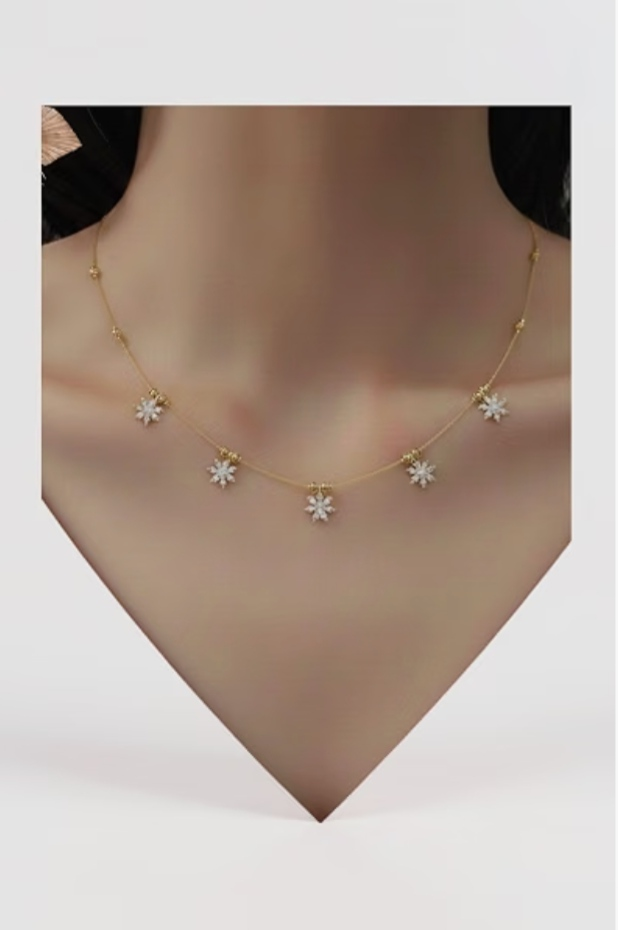
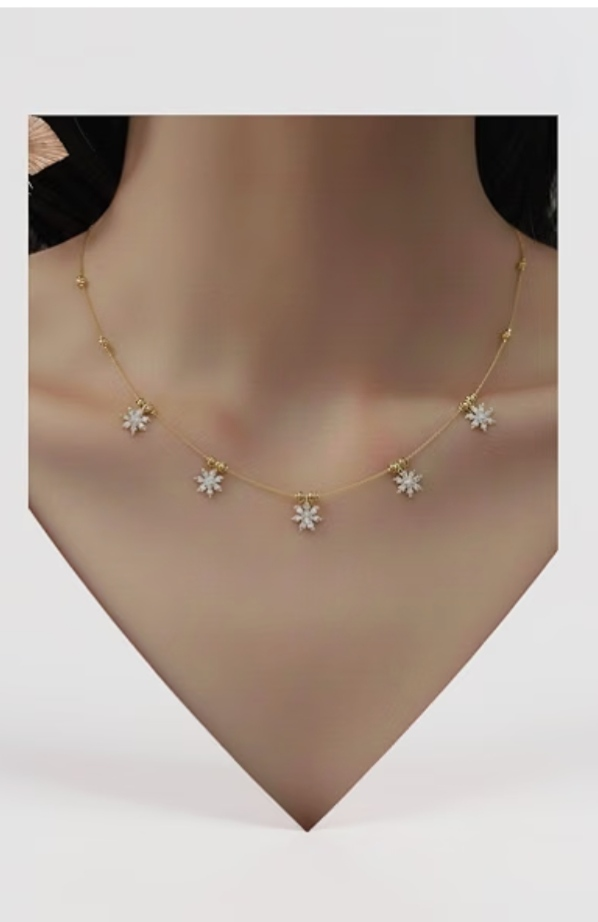
Add files via upload

diff --git a/index.html b/index.html
@@ -1,101 +1,257 @@
 <!DOCTYPE html>
-<html>
+<html lang="en">
 <head>
-    <title>K2 Collection</title>
+<meta charset="UTF-8">
+<meta name="viewport" content="width=device-width, initial-scale=1.0">
+<title>K2 Collection | Elegant Jewellery</title>
+<style>
+*{box-sizing:border-box;margin:0;padding:0}
+html{scroll-behavior:smooth}
+body{font-family:Arial,Helvetica,sans-serif;background:#f8f5f0;color:#1c1c1c;line-height:1.5}
+header{background:#1c1c1c;color:#fff;text-align:center;padding:28px 20px}
+.logo{font-family:Georgia,serif;font-size:34px;letter-spacing:4px}
+.tagline{color:#d4af6a;margin-top:6px;font-size:14px;letter-spacing:1.5px}
+nav{background:#fff;border-bottom:1px solid #e5ded3;display:flex;justify-content:center;gap:30px;padding:15px;position:sticky;top:0;z-index:10}
+nav a{color:#1c1c1c;text-decoration:none;font-weight:bold;font-size:14px}
+nav a:hover{color:#b08d57}
+.hero{min-height:360px;display:flex;align-items:center;justify-content:center;text-align:center;padding:55px 20px;background:linear-gradient(135deg,#f8f5f0,#efe5d5)}
+.hero h1{font-family:Georgia,serif;font-size:48px;margin-bottom:12px}
+.hero p{font-size:18px;color:#666;margin-bottom:25px}
+.shop-btn{display:inline-block;background:#b08d57;color:#fff;text-decoration:none;padding:13px 30px;border-radius:28px;font-weight:bold}
+.shop-btn:hover{background:#8f6f3f}
+.section-title{text-align:center;padding:42px 20px 20px}
+.section-title h2{font-family:Georgia,serif;font-size:32px}
+.section-title p{color:#777;margin-top:7px}
+.categories{display:flex;justify-content:center;gap:12px;flex-wrap:wrap;padding:10px 20px 30px}
+.category{padding:10px 18px;border:1px solid #b08d57;border-radius:25px;color:#7b5d32;background:#fff;text-decoration:none;cursor:pointer}
+.category.active,.category:hover{background:#b08d57;color:#fff}
+.shop-tools{max-width:1100px;margin:0 auto;padding:5px 20px 28px;display:flex;justify-content:center;gap:12px;flex-wrap:wrap}
+#search{width:min(440px,100%);padding:13px 18px;border:1px solid #d9cdbd;border-radius:28px;background:#fff;font-size:15px;outline:none}
+#search:focus{border-color:#b08d57;box-shadow:0 0 0 3px rgba(176,141,87,.12)}
+.clear-btn{padding:12px 20px;border:1px solid #b08d57;border-radius:25px;background:#fff;color:#7b5d32;cursor:pointer}
+.clear-btn:hover{background:#b08d57;color:#fff}
+.products{max-width:1200px;margin:auto;padding:5px 20px 60px;display:grid;grid-template-columns:repeat(3,1fr);gap:24px}
+.product{background:#fff;border-radius:14px;padding:15px;text-align:center;box-shadow:0 8px 25px rgba(0,0,0,.07);transition:.25s}
+.product:hover{transform:translateY(-6px);box-shadow:0 14px 30px rgba(0,0,0,.13)}
+.product img{width:100%;height:250px;object-fit:contain;background:#f8f5f0;border-radius:10px}
+.product h3{font-size:19px;margin:16px 4px 7px}
+.price{color:#b08d57;font-size:21px;font-weight:bold;margin-bottom:15px}
+.buy-btn{display:inline-block;background:#b08d57;color:#fff;text-decoration:none;padding:11px 25px;border-radius:25px;font-weight:bold}
+.buy-btn:hover{background:#8f6f3f}
+.no-results{display:none;text-align:center;padding:20px;color:#777;grid-column:1/-1}
+.about{background:#1c1c1c;color:#fff;text-align:center;padding:50px 20px}
+.about h2{font-family:Georgia,serif;color:#d4af6a;margin-bottom:10px}
+.about p{max-width:650px;margin:auto;color:#ddd}
+footer{background:#111;color:#aaa;text-align:center;padding:22px;font-size:13px}
+footer span{color:#d4af6a}
+@media(max-width:800px){.products{grid-template-columns:repeat(2,1fr)}.hero h1{font-size:38px}}
+@media(max-width:520px){nav{gap:15px;flex-wrap:wrap}.hero h1{font-size:31px}.products{grid-template-columns:1fr}.product img{height:270px}}
 
-    <style>
-    body {
-        font-family: Arial;
-        background-color: #ffe6f0;
-        text-align: center;
-        margin: 0;
-    }
+.trending-section{padding:70px 6%;background:#fffaf7}
+.section-heading{text-align:center;margin-bottom:34px}
+.eyebrow{font-size:12px;letter-spacing:2px;font-weight:700;color:#b58b45}
+.section-heading h2{margin:8px 0 8px;font-size:34px}
+.section-heading p{margin:0;color:#666}
+.trending-grid{display:grid;grid-template-columns:repeat(3,1fr);gap:24px;max-width:1100px;margin:auto}
+.trend-card{background:#fff;border-radius:18px;overflow:hidden;box-shadow:0 8px 25px rgba(0,0,0,.08);transition:transform .25s ease,box-shadow .25s ease}
+.trend-card:hover{transform:translateY(-6px);box-shadow:0 14px 32px rgba(0,0,0,.13)}
+.trend-image-wrap{position:relative;height:260px;background:#f6f0eb;display:flex;align-items:center;justify-content:center}
+.trend-image-wrap img{width:100%;height:100%;object-fit:cover}
+.trend-badge{position:absolute;top:14px;left:14px;z-index:2;background:#111;color:#fff;padding:7px 11px;border-radius:20px;font-size:12px;font-weight:700}
+.trend-content{padding:20px}
+.trend-content h3{margin:0 0 8px;font-size:20px}
+.trend-content p{margin:0 0 16px;color:#666;line-height:1.5}
+.trend-link{color:#b58b45;text-decoration:none;font-weight:700}
+@media(max-width:800px){.trending-grid{grid-template-columns:1fr 1fr}}
+@media(max-width:560px){.trending-section{padding:50px 5%}.trending-grid{grid-template-columns:1fr}.trend-image-wrap{height:280px}.section-heading h2{font-size:29px}}
 
-    h1 {
-        background-color: #d63384;
-        color: white;
-        padding: 20px;
-        margin: 0;
-    }
-
-    .welcome {
-        padding: 20px;
-    }
-
-    .product {
-        background-color: white;
-        width: 280px;
-        margin: 20px auto;
-        padding: 15px;
-        border-radius: 15px;
-    }
-
-    .product img {
-        width: 100%;
-        height: 250px;
-        object-fit: contain;
-        border-radius: 10px;
-    }
-
-    .price {
-        font-size: 20px;
-        font-weight: bold;
-    }
-
-    button {
-        background-color: #d63384;
-        color: white;
-        border: none;
-        padding: 12px 25px;
-        border-radius: 20px;
-    }
 </style>
 </head>
-
 <body>
 
-    <h1>💎 K2 COLLECTION 💎</h1>
+<header>
+  <div class="logo">💎 K2 COLLECTION 💎</div>
+  <div class="tagline">ELEGANT JEWELLERY • TIMELESS BEAUTY</div>
+</header>
 
-    <div class="welcome">
-        <h2>Welcome to K2 Collection</h2>
-        <p>Beautiful Jewellery for Every Occasion ✨</p>
+<nav>
+  <a href="#home">Home</a>
+  <a href="#shop">Shop</a>
+  <a href="#categories">Categories</a>
+  <a href="#about">About</a>
+</nav>
+
+
+<section id="trending" class="trending-section">
+  <div class="section-heading">
+    <span class="eyebrow">HOT RIGHT NOW</span>
+    <h2>Trending Now 🔥</h2>
+    <p>Fresh styles customers are loving right now.</p>
+  </div>
+
+  <div class="trending-grid">
+    <article class="trend-card">
+      <div class="trend-image-wrap">
+        <span class="trend-badge">🔥 Trending</span>
+        <img src="ring.jpg" alt="Trendy Ring">
+      </div>
+      <div class="trend-content">
+        <h3>Modern Statement Rings</h3>
+        <p>Minimal sparkle with a stylish everyday look.</p>
+        <a href="#shop" class="trend-link">Explore Style →</a>
+      </div>
+    </article>
+
+    <article class="trend-card">
+      <div class="trend-image-wrap">
+        <span class="trend-badge">⭐ Popular</span>
+        <img src="necklace.jpg" alt="Layered Necklace Style">
+      </div>
+      <div class="trend-content">
+        <h3>Layered Necklace Looks</h3>
+        <p>Elegant pendant styles made for effortless layering.</p>
+        <a href="#shop" class="trend-link">Explore Style →</a>
+      </div>
+    </article>
+
+    <article class="trend-card">
+      <div class="trend-image-wrap">
+        <span class="trend-badge">✨ Trending</span>
+        <img src="bracelet.jpg" alt="Trendy Bracelet">
+      </div>
+      <div class="trend-content">
+        <h3>Chic Everyday Bracelets</h3>
+        <p>Simple, polished pieces that complete your look.</p>
+        <a href="#shop" class="trend-link">Explore Style →</a>
+      </div>
+    </article>
+  </div>
+</section>
+
+<section class="hero" id="home">
+  <div>
+    <h1>Discover Your Perfect Shine ✨</h1>
+    <p>Elegant jewellery for every occasion</p>
+    <a class="shop-btn" href="#shop">Shop Collection</a>
+  </div>
+</section>
+
+<section id="categories">
+  <div class="section-title">
+    <h2>Shop by Category</h2>
+    <p>Find a style that speaks to you</p>
+  </div>
+  <div class="categories">
+    <button class="category active" data-filter="All">💎 All</button>
+    <button class="category" data-filter="Rings">💍 Rings</button>
+    <button class="category" data-filter="Bracelets">✨ Bracelets</button>
+    <button class="category" data-filter="Necklaces">📿 Necklaces</button>
+  </div>
+</section>
+
+<section id="shop">
+  <div class="section-title">
+    <h2>Featured Collection</h2>
+    <p>Search or choose a category to explore</p>
+  </div>
+
+  <div class="shop-tools">
+    <input id="search" type="search" placeholder="🔍 Search jewellery...">
+    <button class="clear-btn" id="clearSearch">Clear</button>
+  </div>
+
+  <div class="products" id="productGrid">
+    <div class="product" data-category="Rings" data-name="beautiful ring ring">
+      <img src="ring.jpg" alt="Beautiful Ring">
+      <h3>Beautiful Ring 💍</h3>
+      <p class="price">₹283</p>
+      <a class="buy-btn" href="https://www.amazon.in/gp/aw/d/B0CZ42S5JJ?linkCode=ll2&tag=k2collection0-21" target="_blank" rel="noopener">Buy Now</a>
     </div>
 
-    <!-- Ring Product -->
-    <div class="product">
-        <img src="ring.jpg" alt="Beautiful Ring">
-        <h2>Beautiful Ring 💍</h2>
-        <p class="price">₹283</p>
-
-        <a href="https://www.amazon.in/gp/aw/d/B0CZ42S5JJ?linkCode=ll2&tag=k2collection0-21"
-           target="_blank">
-            <button>Buy Now</button>
-        </a>
+    <div class="product" data-category="Bracelets" data-name="beautiful bracelet bracelet">
+      <img src="bracelet.jpg" alt="Beautiful Bracelet">
+      <h3>Beautiful Bracelet ✨</h3>
+      <p class="price">₹379</p>
+      <a class="buy-btn" href="https://link.amazon/B0ck3Vpwg" target="_blank" rel="noopener">Buy Now</a>
     </div>
 
-    <!-- Bracelet Product -->
-    <div class="product">
-        <img src="bracelet.jpg" alt="Beautiful Bracelet">
-        <h2>Beautiful Bracelet ✨</h2>
-        <p class="price">₹379</p>
-
-        <a href="https://link.amazon/B0ck3Vpwg"
-           target="_blank">
-            <button>Buy Now</button>
-        </a>
+    <div class="product" data-category="Necklaces" data-name="beautiful necklace necklace">
+      <img src="necklace.jpg" alt="Beautiful Necklace">
+      <h3>Beautiful Necklace 💎</h3>
+      <p class="price">₹249</p>
+      <a class="buy-btn" href="https://link.amazon/B0doWg1YB" target="_blank" rel="noopener">Buy Now</a>
     </div>
 
-    <!-- Necklace Product -->
-    <div class="product">
-        <img src="necklace.jpg" alt="Beautiful Necklace">
-        <h2>Beautiful Necklace 💎</h2>
-        <p class="price">₹249</p>
+    <div class="no-results" id="noResults">No jewellery found. Try another search. 💎</div>
+  </div>
+</section>
 
-        <a href="https://link.amazon/B0doWg1YB"
-           target="_blank">
-            <button>Buy Now</button>
-        </a>
-    </div>
+<section class="about" id="about">
+  <h2>About K2 Collection</h2>
+  <p>Discover elegant jewellery chosen to add a beautiful touch to everyday moments and special occasions.</p>
+</section>
 
+<footer>
+  © 2026 <span>K2 Collection</span> • All Rights Reserved
+</footer>
+
+<script>
+const products = [...document.querySelectorAll('.product')];
+const categoryButtons = [...document.querySelectorAll('.category')];
+const search = document.getElementById('search');
+const clearSearch = document.getElementById('clearSearch');
+const noResults = document.getElementById('noResults');
+let selectedCategory = 'All';
+
+function filterProducts(){
+  const rawQuery = search.value.trim().toLowerCase();
+  const aliases = {
+    'necklace': 'necklaces',
+    'necklaces': 'necklaces',
+    'bracelet': 'bracelets',
+    'bracelets': 'bracelets',
+    'ring': 'rings',
+    'rings': 'rings',
+    'jewellery': 'jewellery',
+    'jewelry': 'jewellery'
+  };
+  const query = aliases[rawQuery] || rawQuery;
+  let visible = 0;
+
+  products.forEach(product => {
+    const categoryMatch = selectedCategory === 'All' || product.dataset.category === selectedCategory;
+    const productText = (
+      product.dataset.name + ' ' +
+      product.dataset.category + ' ' +
+      product.querySelector('h3').textContent
+    ).toLowerCase();
+    const textMatch = !query || productText.includes(query);
+    const show = categoryMatch && textMatch;
+    product.style.display = show ? '' : 'none';
+    if(show) visible++;
+  });
+
+  noResults.style.display = visible ? 'none' : 'block';
+}
+
+categoryButtons.forEach(button => {
+  button.addEventListener('click', () => {
+    categoryButtons.forEach(b => b.classList.remove('active'));
+    button.classList.add('active');
+    selectedCategory = button.dataset.filter;
+    filterProducts();
+    document.getElementById('shop').scrollIntoView({behavior:'smooth'});
+  });
+});
+
+search.addEventListener('input', filterProducts);
+
+clearSearch.addEventListener('click', () => {
+  search.value = '';
+  selectedCategory = 'All';
+  categoryButtons.forEach(b => b.classList.toggle('active', b.dataset.filter === 'All'));
+  filterProducts();
+});
+</script>
 </body>
-    </html>
+</html>
